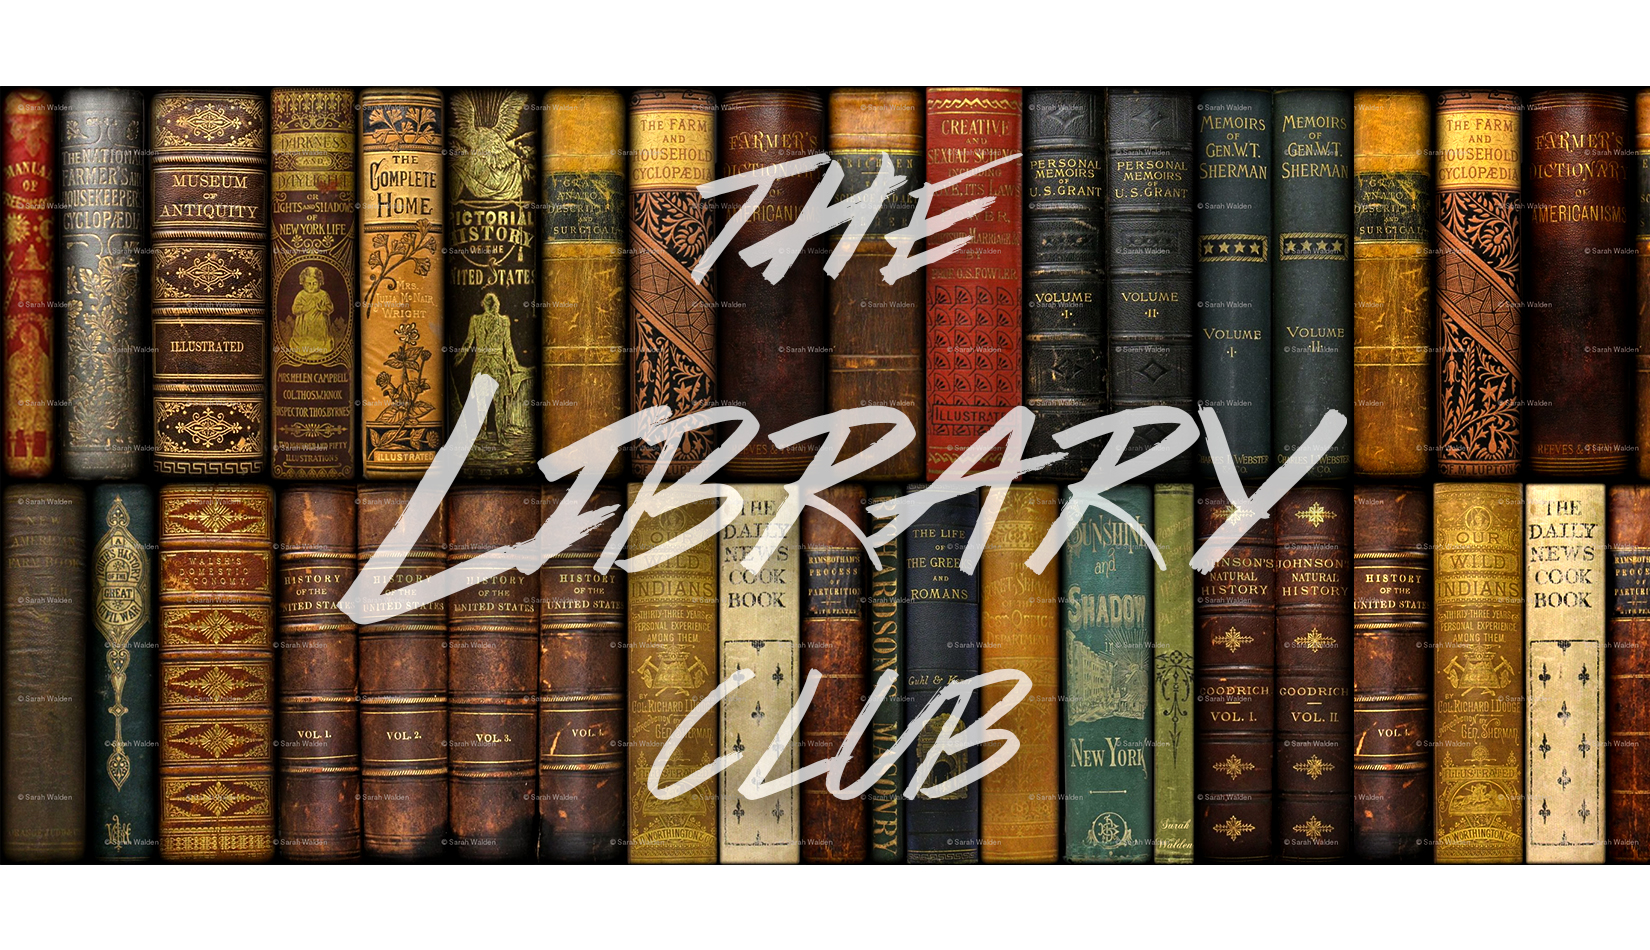
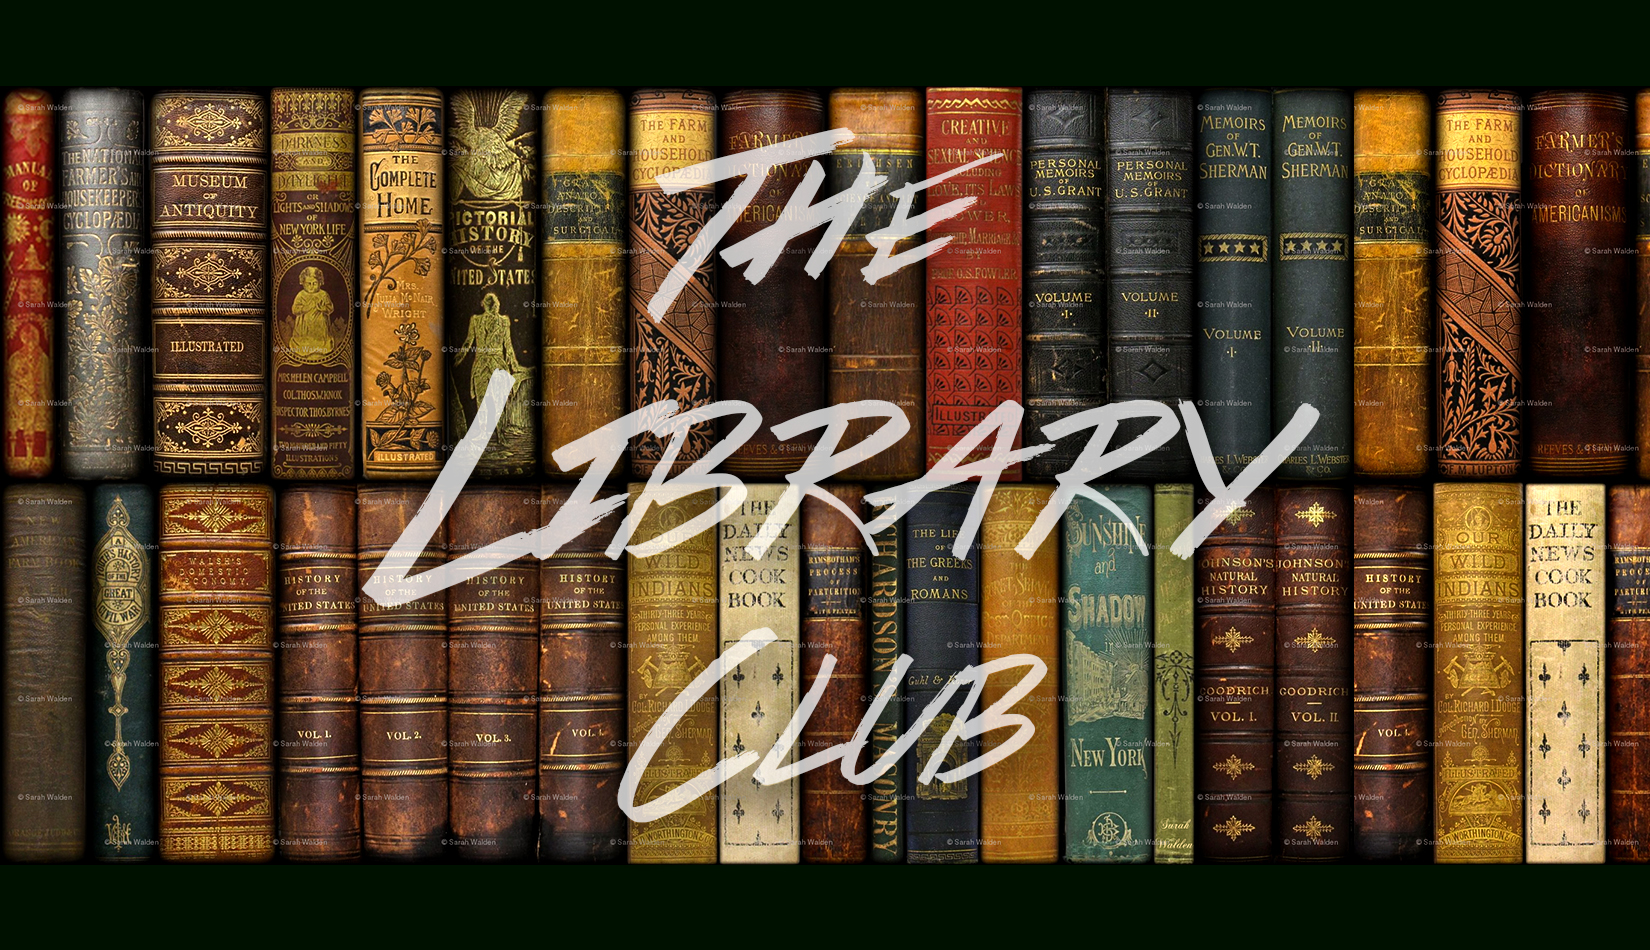
second styling commit: background + image + fonts + navs

diff --git a/app/assets/stylesheets/application.css b/app/assets/stylesheets/application.css
@@ -14,16 +14,37 @@
  *= require_self
  */
 
+body {
+  background-color: #001300;
+  color: white;
+  font-family: 'Nothing You Could Do', cursive;
+}
+
+a {
+  color: white;
+  text-decoration: none;
+}
+
 ul {
   list-style: none;
   float: right;
+  font-size: 19px;
 }
 
 li {
   text-align: right;
   display: inline;
+  margin-right: 10px;
 }
 
 .navbar-row {
   display: list-item;
+}
+
+img {
+  max-width: 100vw;
+}
+
+#new_user {
+  margin-left: 45%;
 }
